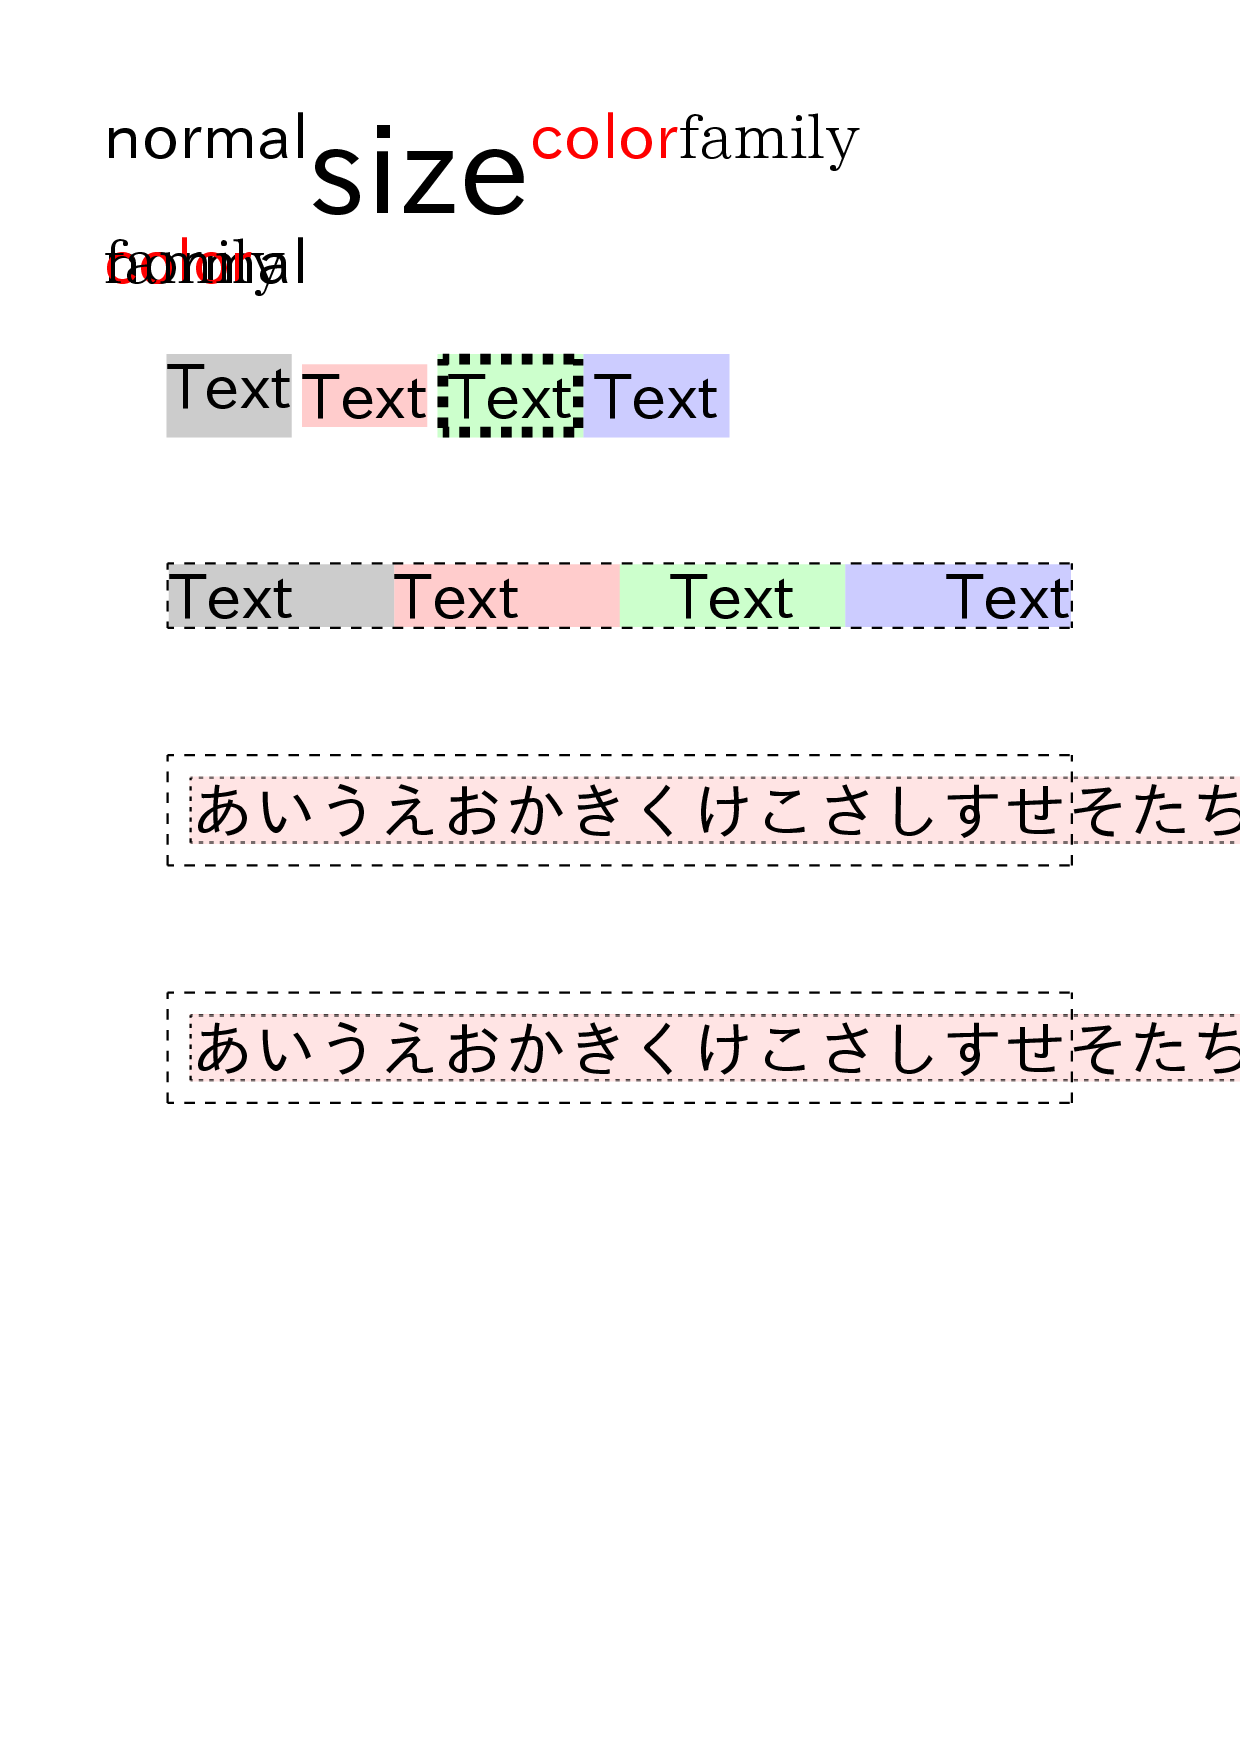
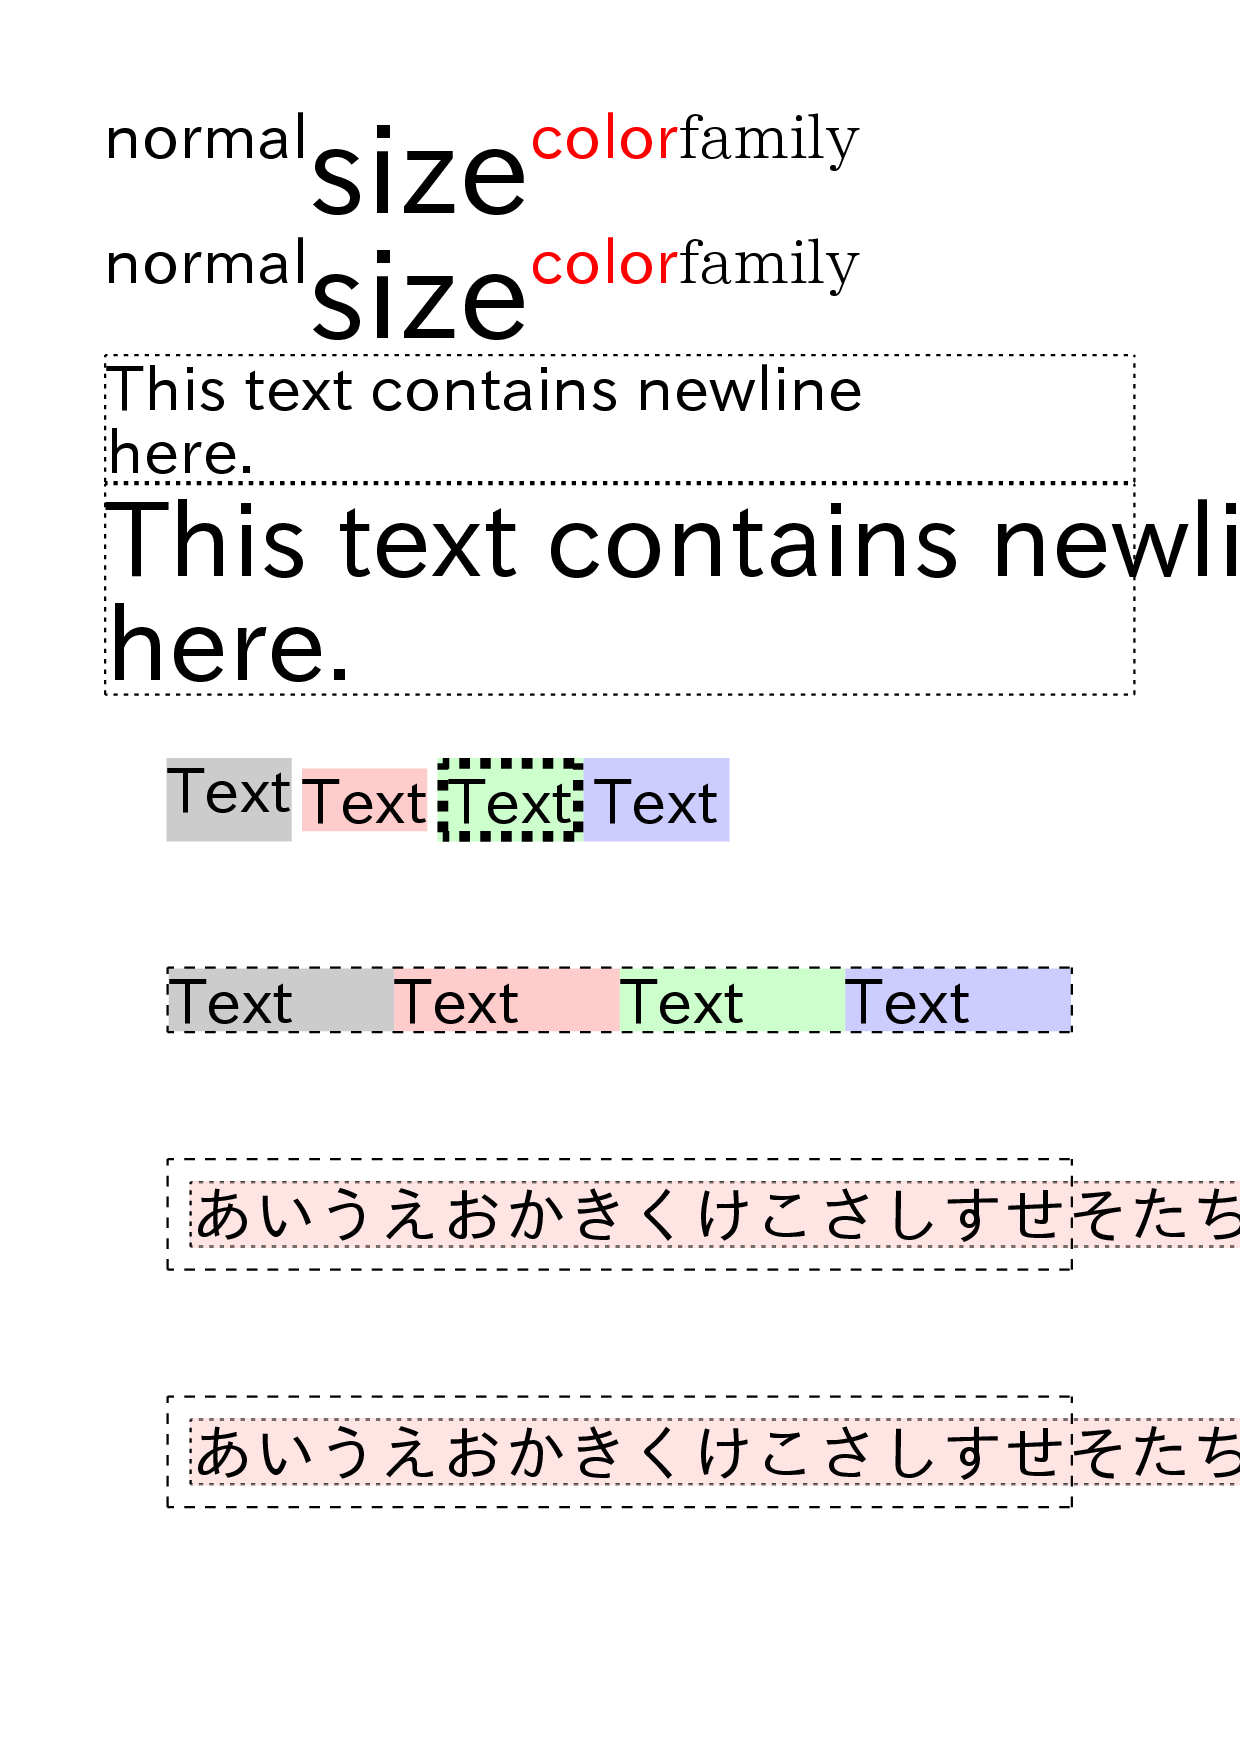
改行コードの処理

diff --git a/item.text.go b/item.text.go
@@ -2,6 +2,8 @@ package flexpdf
 
 import (
 	"image/color"
+	"math"
+	"strings"
 
 	"github.com/signintech/gopdf"
 )
@@ -19,15 +21,15 @@ const (
 type Text struct {
 	flexItemCommon[*Text]
 
-	LineHeight float64
-	Align      TextAlign
-	Runs       []*TextRun
+	Align TextAlign
+	Runs  []*TextRun
 }
 
 type TextRun struct {
 	Color      color.Color
 	FontSize   float64
 	FontFamily string
+	LineHeight float64
 	Text       string
 }
 
@@ -36,6 +38,7 @@ func NewRun(text string) *TextRun {
 		Color:      color.Black,
 		FontSize:   10,
 		FontFamily: "",
+		LineHeight: 1,
 		Text:       text,
 	}
 }
@@ -51,17 +54,64 @@ func (r *TextRun) SetFontFamily(f string) *TextRun {
 	r.FontFamily = f
 	return r
 }
+func (r *TextRun) SetLineHeight(lineHeight float64) *TextRun {
+	r.LineHeight = lineHeight
+	return r
+}
 func (r *TextRun) SetText(t string) *TextRun {
 	r.Text = t
 	return r
 }
 
+// splitToNBR は改行コードのみを考慮して noBrRunのリストに分割します
+func (r *TextRun) splitWithNewline() []noBrRun {
+	nbrs := []noBrRun{}
+	nbr := noBrRun{*r}
+	for _, text := range strings.Split(r.Text, "\n") {
+		nbr.Text = text
+		nbrs = append(nbrs, nbr)
+	}
+	return nbrs
+}
+
+// 改行を含まない TextRun
+type noBrRun struct {
+	TextRun
+}
+
+func (r *noBrRun) size(pdf *gopdf.GoPdf) (size, error) {
+	if err := pdf.SetFont(r.FontFamily, "", r.FontSize); err != nil {
+		return size{}, err
+	}
+	w, err := pdf.MeasureTextWidth(r.Text)
+	if err != nil {
+		return size{}, err
+	}
+	return size{w: w, h: r.FontSize * r.LineHeight}, nil
+}
+func (r *noBrRun) draw(pdf *gopdf.GoPdf) error {
+	if err := pdf.SetFont(r.FontFamily, "", r.FontSize); err != nil {
+		return err
+	}
+	if err := setColor(pdf, r.Color); err != nil {
+		return err
+	}
+
+	s, err := r.size(pdf)
+	if err != nil {
+		return err
+	}
+
+	return pdf.Cell(&gopdf.Rect{W: s.w, H: s.h}, r.Text)
+}
+
+type textLine struct {
+	size size
+	nbrs []noBrRun
+}
+
 func (t *Text) AddRun(run *TextRun) *Text {
 	t.Runs = append(t.Runs, run)
-	return t
-}
-func (t *Text) SetLineHeight(lineHeight float64) *Text {
-	t.LineHeight = lineHeight
 	return t
 }
 func (t *Text) SetAlign(align TextAlign) *Text {
@@ -71,8 +121,7 @@ func (t *Text) SetAlign(align TextAlign) *Text {
 
 func NewText(runs ...*TextRun) *Text {
 	t := &Text{
-		LineHeight: 1,
-		Runs:       runs,
+		Runs: runs,
 	}
 	t.flexItemCommon.init(t)
 	return t
@@ -81,90 +130,84 @@ func NewText(runs ...*TextRun) *Text {
 func (t *Text) drawContent(pdf *gopdf.GoPdf, r rect, depth int) (err error) {
 	defer wrap(&err, "text.drawContent")
 
-	for _, run := range t.Runs {
-		if err := pdf.SetFont(run.FontFamily, "", run.FontSize); err != nil {
-			return err
-		}
+	lines, err := t.splitLines(pdf, r.w)
+	if err != nil {
+		return err
+	}
 
-		{
-			c := run.Color
-			if c == nil {
-				c = color.Black
-			}
-			if err := setColor(pdf, c); err != nil {
+	pdf.SetXY(r.x, r.y)
+	for _, line := range lines {
+		pdf.SetX(r.x) // TODO align
+		for _, nbr := range line.nbrs {
+			if err := nbr.draw(pdf); err != nil {
 				return err
 			}
 		}
-
-		pdf.SetXY(r.x, r.y)
-		// TODO 幅が小さすぎる場合に無限ループになるのを抑制
-		if r.w < 20 {
-			return nil
-		}
-
-		lines, err := pdf.SplitText(run.Text, r.w)
-		if err != nil {
-			return err
-		}
-
-		for _, line := range lines {
-			opt := gopdf.CellOption{}
-			switch t.Align {
-			case TextAlignBegin:
-				opt.Align = gopdf.Left
-			case TextAlignCenter:
-				opt.Align = gopdf.Center
-			case TextAlignEnd:
-				opt.Align = gopdf.Right
-			}
-
-			if err := pdf.MultiCellWithOption(&gopdf.Rect{W: r.w, H: r.h}, line, opt); err != nil {
-				return err
-			}
-			pdf.Br((t.LineHeight - 1) * run.FontSize)
-			pdf.SetX(r.x)
-		}
+		pdf.Br(line.size.h)
 	}
 
 	return nil
 }
 
-func (t *Text) getContentSize(pdf *gopdf.GoPdf, width float64) (s size, err error) {
+func (t *Text) getContentSize(pdf *gopdf.GoPdf, widthLimit float64) (s size, err error) {
 	defer wrap(&err, "text.getContentSize")
 
-	run := t.Runs[0]
-
-	if err := pdf.SetFont(run.FontFamily, "", run.FontSize); err != nil {
+	lines, err := t.splitLines(pdf, widthLimit)
+	if err != nil {
 		return size{}, err
 	}
 
-	if width < 0 { // 負の場合、幅が制限されないときのサイズを調べる
-		width = 10000000
-	}
-
-	lines := []string{}
-
-	if run.Text != "" {
-		if lines_, err := pdf.SplitText(run.Text, width); err != nil {
-			return size{}, err
-		} else {
-			lines = lines_
-		}
-	}
-
-	cs := size{
-		h: run.FontSize * (float64(len(lines)) + (t.LineHeight-1)*float64(len(lines)-1)),
-	}
-
 	for _, line := range lines {
-		w, err := pdf.MeasureTextWidth(line)
-		if err != nil {
-			return size{}, err
-		}
-		if cs.w < w {
-			cs.w = w
-		}
+		s.w = math.Max(s.w, line.size.w)
+		s.h += line.size.h
+	}
+	return s, nil
+}
+
+// splitLinesは Runs を行ごとに区切り、 [][]TextRunを返します。
+// 返されるスライスは行を表しており、その要素は行に含まれるRunです。
+// 下記のルールが考慮されます
+// [ ] Textの幅
+// [v] Runに含まれる改行コード
+// [ ] 禁則処理
+// [ ]  - 連続する欧文文字と空白
+// [ ]  - 句読点や約物
+func (t *Text) splitLines(pdf *gopdf.GoPdf, widthLimit float64) ([]textLine, error) {
+	if false {
+		pdf.SplitText("", 10)
 	}
 
-	return cs, nil
+	lines := []textLine{}
+	for _, r := range t.Runs {
+		for i, nbr := range r.splitWithNewline() {
+			if len(lines) == 0 || i != 0 {
+				lines = append(lines, textLine{})
+			}
+
+			s, err := nbr.size(pdf)
+			if err != nil {
+				return nil, err
+			}
+
+			line := &lines[len(lines)-1]
+			line.nbrs = append(line.nbrs, nbr)
+			line.size.w += s.w
+			line.size.h = math.Max(line.size.h, s.h)
+		}
+
+		// s, err := nbr.size(pdf)
+		// if err != nil {
+		// 	return nil, err
+		// }
+
+		// nbr.split(widthLimit - line.width)
+
+		// if line.width+s.w > widthLimit {
+		// 	panic("TODO")
+		// }
+
+		// line.width += s.w
+	}
+
+	return lines, nil
 }

diff --git a/draw_test.go b/draw_test.go
@@ -86,7 +86,7 @@ var cases = map[string]*Box{
 			NewText(NewRun("color").SetFontSize(30).SetColor(color.RGBA{R: 0xFF, A: 0xFF})),
 			NewText(NewRun("family").SetFontSize(30).SetFontFamily("ipaexm")),
 		),
-		// many run for 1 text
+		// multiple runs for 1 text
 		NewRowBox(
 			NewText(
 				NewRun("normal").SetFontSize(30),
@@ -95,6 +95,13 @@ var cases = map[string]*Box{
 				NewRun("family").SetFontSize(30).SetFontFamily("ipaexm"),
 			),
 		),
+		// text with break
+		NewRowBox(
+			NewText(NewRun("This text contains newline\nhere.").SetFontSize(30)),
+		).SetBorder(UniformedBorder(color.Black, BorderStyleDotted, 1)),
+		NewRowBox(
+			NewText(NewRun("This text contains newline\nhere.").SetFontSize(50)),
+		).SetBorder(UniformedBorder(color.Black, BorderStyleDotted, 1)),
 		NewRowBox(
 			NewText(NewRun("Text").SetFontSize(30)).SetBackgroundColor(color.RGBA{R: 0xCC, G: 0xCC, B: 0xCC, A: 0xFF}),
 			NewText(NewRun("Text").SetFontSize(30)).SetBackgroundColor(color.RGBA{R: 0xFF, G: 0xCC, B: 0xCC, A: 0xFF}).SetMargin(5),
